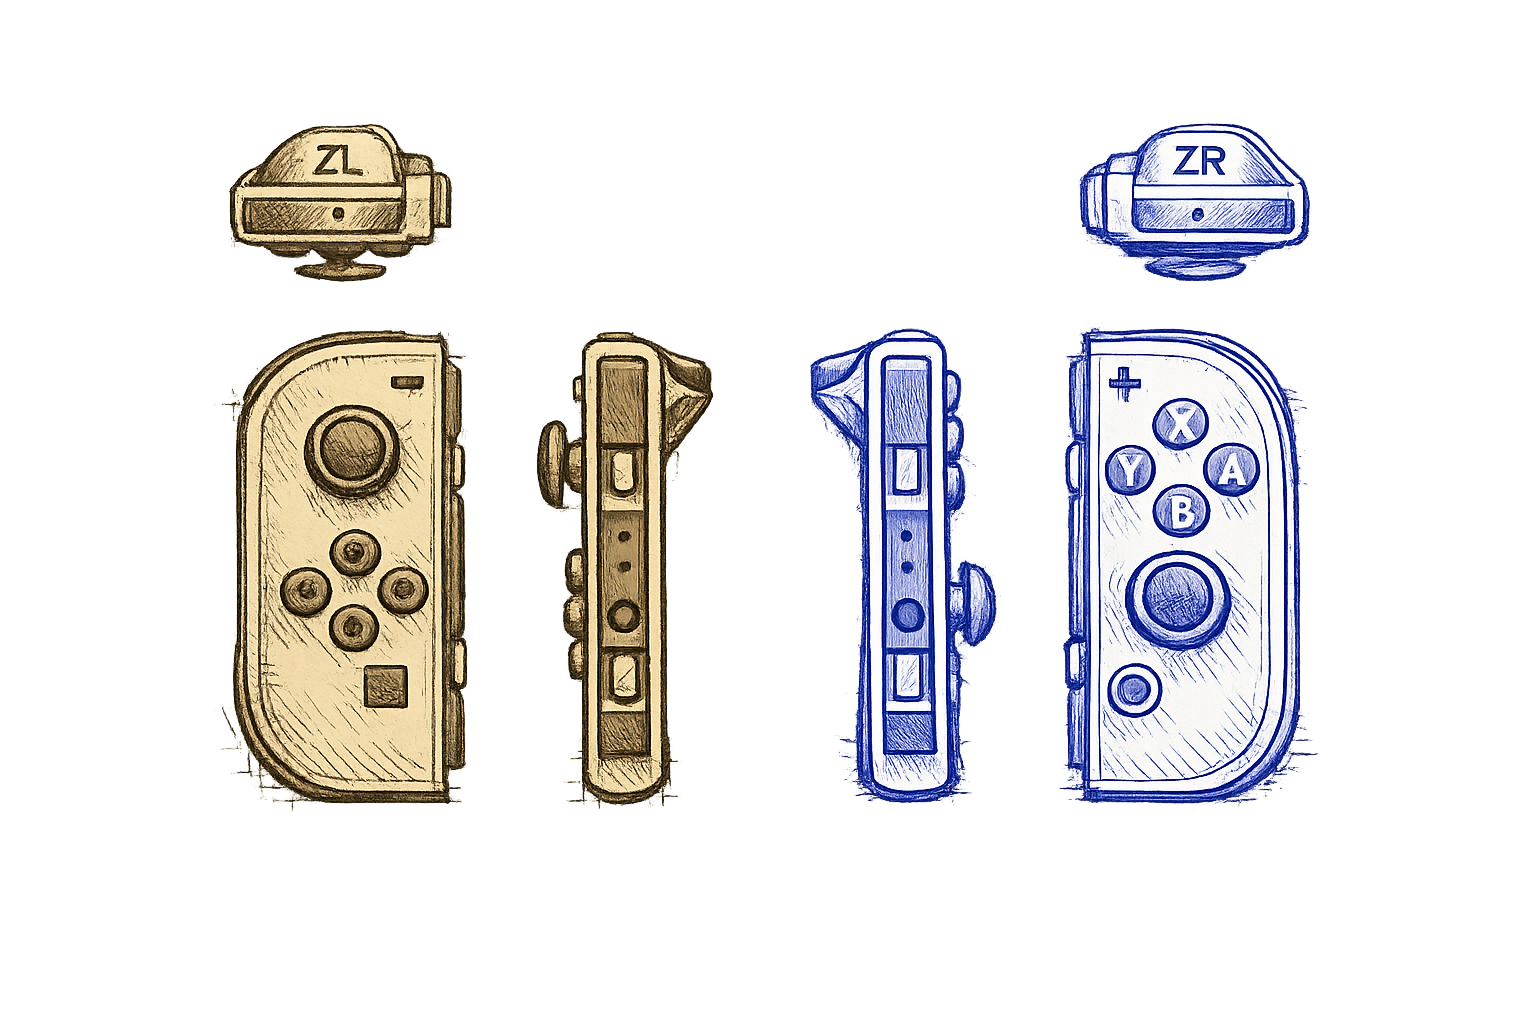
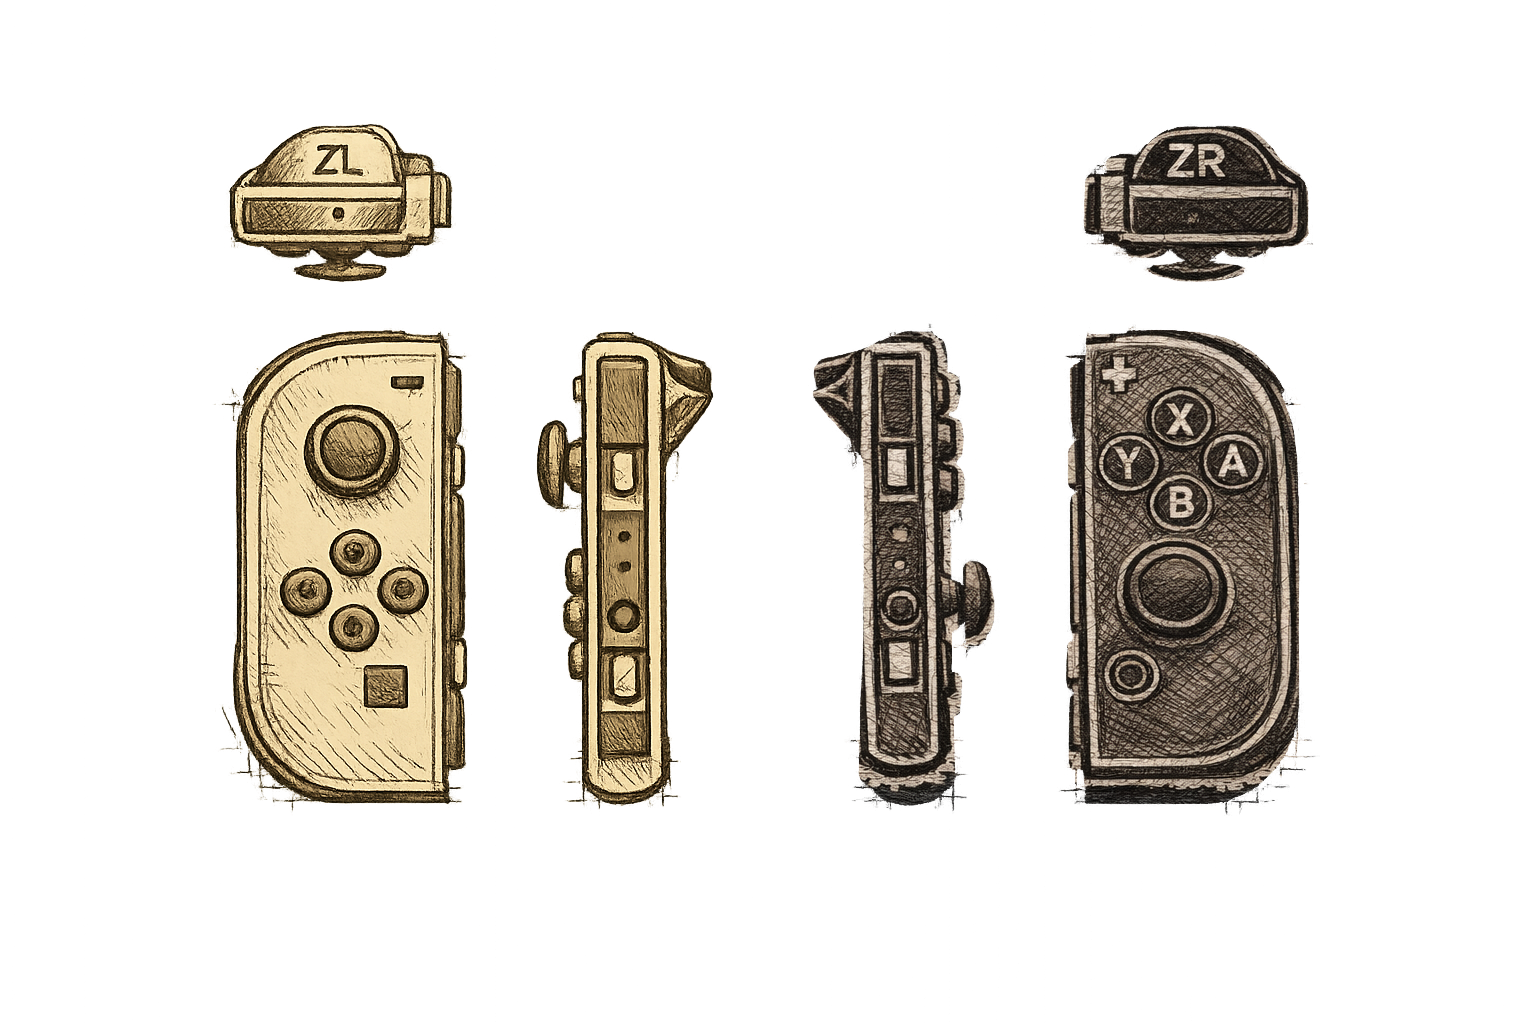
feat(ui): dark controller overlays + regenerate inspection PNGs
- Regenerated 4 light inspection PNGs (joycons-none/left/right/both)
  reflecting updated joycons-grey.png artwork.
- Generated 4 new dark inspection PNGs (joycons-dark-none/left/right/both)
  from joycons-dark.png + joycons-dark-grey.png source artwork.
- Updated generate_ui_artifacts.py to render dark variants alongside light.
- Updated generate_ui_bundle.py: dark bundle now uses dark overlay PNGs
  instead of light ones (LIGHT_OVERLAYS / DARK_OVERLAYS dicts).
- Updated background-dark.svg to reference joycons-dark.png.
- Updated docs/ui/README.md and CHANGELOG.md.

Changed region(s): [[0.6875, 0.3125, 0.8438, 0.8125], [0.5312, 0.3125, 0.6562, 0.8125], [0.6875, 0.0938, 0.875, 0.2812]]

diff --git a/tools/generate_ui_artifacts.py b/tools/generate_ui_artifacts.py
@@ -23,12 +23,20 @@ REPO_ROOT = Path(__file__).resolve().parents[1]
 
 JOYCONS_SRC = REPO_ROOT / "joycons.png"
 JOYCONS_GREY_SRC = REPO_ROOT / "joycons-grey.png"
+JOYCONS_DARK_SRC = REPO_ROOT / "joycons-dark.png"
+JOYCONS_DARK_GREY_SRC = REPO_ROOT / "joycons-dark-grey.png"
 JOYCONS_OUT_DIR = REPO_ROOT / "docs" / "ui" / "assets"
 JOYCONS_COPIES = {
     "joycons-none.png": "Inspection copy (none disconnected) derived from joycons-grey.png",
     "joycons-left.png": "Inspection copy (left connected) composited from joycons.png + joycons-grey.png",
     "joycons-right.png": "Inspection copy (right connected) composited from joycons.png + joycons-grey.png",
     "joycons-both.png": "Inspection copy (both connected) derived from joycons.png",
+}
+JOYCONS_DARK_COPIES = {
+    "joycons-dark-none.png": "Dark inspection copy (none) derived from joycons-dark-grey.png",
+    "joycons-dark-left.png": "Dark inspection copy (left connected) composited from joycons-dark.png + joycons-dark-grey.png",
+    "joycons-dark-right.png": "Dark inspection copy (right connected) composited from joycons-dark.png + joycons-dark-grey.png",
+    "joycons-dark-both.png": "Dark inspection copy (both connected) derived from joycons-dark.png",
 }
 
 GENERATOR_SRC = Path(__file__).resolve()
@@ -39,12 +47,17 @@ UI_BUNDLE_INPUTS = [
     UI_BUNDLE_GENERATOR,
     JOYCONS_SRC,
     JOYCONS_GREY_SRC,
+    JOYCONS_DARK_SRC,
+    JOYCONS_DARK_GREY_SRC,
     REPO_ROOT / "docs" / "ui" / "background.svg",
     REPO_ROOT / "docs" / "ui" / "background-left.svg",
     REPO_ROOT / "docs" / "ui" / "background-right.svg",
     REPO_ROOT / "docs" / "ui" / "background-both.svg",
+    REPO_ROOT / "docs" / "ui" / "background-dark.svg",
     REPO_ROOT / "docs" / "ui" / "assets" / "components.svg",
     REPO_ROOT / "docs" / "ui" / "assets" / "icons.svg",
+    REPO_ROOT / "docs" / "ui" / "assets" / "components-dark.svg",
+    REPO_ROOT / "docs" / "ui" / "assets" / "icons-dark.svg",
 ]
 
 
@@ -66,10 +79,18 @@ def _copy_if_needed(src: Path, dst: Path) -> bool:
     return True
 
 
-def _render_joycons_variant(dst: Path, *, variant: str) -> bool:
-    """Render joycons-none/left/right/both from the color + grey source art."""
+def _render_joycons_variant(
+    dst: Path,
+    *,
+    variant: str,
+    color_src: Path | None = None,
+    grey_src: Path | None = None,
+) -> bool:
+    """Render joycons-none/left/right/both from a color + grey source pair."""
+    color_src = color_src or JOYCONS_SRC
+    grey_src = grey_src or JOYCONS_GREY_SRC
 
-    if not _needs_update([JOYCONS_SRC, JOYCONS_GREY_SRC, GENERATOR_SRC], dst):
+    if not _needs_update([color_src, grey_src, GENERATOR_SRC], dst):
         return False
 
     try:
@@ -82,11 +103,11 @@ def _render_joycons_variant(dst: Path, *, variant: str) -> bool:
         )
         raise
 
-    img = Image.open(JOYCONS_SRC).convert("RGBA")
-    grey = Image.open(JOYCONS_GREY_SRC).convert("RGBA")
+    img = Image.open(color_src).convert("RGBA")
+    grey = Image.open(grey_src).convert("RGBA")
     if img.size != grey.size:
         raise ValueError(
-            f"joycons.png and joycons-grey.png must have the same size, got {img.size} vs {grey.size}"
+            f"{color_src.name} and {grey_src.name} must have the same size, got {img.size} vs {grey.size}"
         )
 
     width, height = img.size
@@ -140,11 +161,32 @@ def main() -> int:
     elif not JOYCONS_GREY_SRC.exists():
         print(f"[ui-artifacts] joycons-grey.png not found: {JOYCONS_GREY_SRC}")
     else:
-        # Render the inspection copies.
+        # Render the light inspection copies.
         for name in JOYCONS_COPIES:
             dst = JOYCONS_OUT_DIR / name
             try:
                 did = _render_joycons_variant(dst, variant=name.removeprefix("joycons-").removesuffix(".png"))
+            except Exception:
+                return 3
+
+            if did:
+                changed.append(str(dst.relative_to(REPO_ROOT)))
+
+    # Render dark inspection copies.
+    if not JOYCONS_DARK_SRC.exists():
+        print(f"[ui-artifacts] joycons-dark.png not found: {JOYCONS_DARK_SRC}")
+    elif not JOYCONS_DARK_GREY_SRC.exists():
+        print(f"[ui-artifacts] joycons-dark-grey.png not found: {JOYCONS_DARK_GREY_SRC}")
+    else:
+        for name in JOYCONS_DARK_COPIES:
+            dst = JOYCONS_OUT_DIR / name
+            try:
+                did = _render_joycons_variant(
+                    dst,
+                    variant=name.removeprefix("joycons-dark-").removesuffix(".png"),
+                    color_src=JOYCONS_DARK_SRC,
+                    grey_src=JOYCONS_DARK_GREY_SRC,
+                )
             except Exception:
                 return 3
 

diff --git a/tools/generate_ui_bundle.py b/tools/generate_ui_bundle.py
@@ -121,10 +121,29 @@ def _read_text(path: Path) -> str:
     return path.read_text(encoding="utf-8")
 
 
-def _rewrite_bundle_svg(svg_text: str) -> str:
+def _rewrite_bundle_svg(svg_text: str, *, dark: bool = False) -> str:
     # Keep docs-friendly relative paths in repo sources, but ensure generated bundle
     # SVGs are self-contained within the output folder.
-    return svg_text.replace("../../joycons.png", "joycons.png")
+    text = svg_text.replace("../../joycons.png", "joycons.png")
+    text = text.replace("../../joycons-dark.png", "joycons.png")
+    return text
+
+
+LIGHT_OVERLAYS = {
+    "joycons.png": Path("joycons.png"),
+    "joycons-both.png": Path("docs/ui/assets/joycons-both.png"),
+    "joycons-left.png": Path("docs/ui/assets/joycons-left.png"),
+    "joycons-right.png": Path("docs/ui/assets/joycons-right.png"),
+    "joycons-none.png": Path("docs/ui/assets/joycons-none.png"),
+}
+
+DARK_OVERLAYS = {
+    "joycons.png": Path("joycons-dark.png"),
+    "joycons-both.png": Path("docs/ui/assets/joycons-dark-both.png"),
+    "joycons-left.png": Path("docs/ui/assets/joycons-dark-left.png"),
+    "joycons-right.png": Path("docs/ui/assets/joycons-dark-right.png"),
+    "joycons-none.png": Path("docs/ui/assets/joycons-dark-none.png"),
+}
 
 
 def _write_bundle(
@@ -135,25 +154,21 @@ def _write_bundle(
     bg_both_path: Path,
     icons_path: Path | None,
     components_path: Path | None,
+    *,
+    dark: bool = False,
 ) -> None:
     """Write a single UI bundle into *out_dir*."""
     out_dir.mkdir(parents=True, exist_ok=True)
 
     (out_dir / "theme.json").write_text(json.dumps(theme, indent=2), encoding="utf-8")
     (out_dir / "layout.json").write_text(json.dumps(DEFAULT_LAYOUT, indent=2), encoding="utf-8")
-    (out_dir / "background-left.svg").write_text(_rewrite_bundle_svg(_read_text(bg_left_path)), encoding="utf-8")
-    (out_dir / "background-right.svg").write_text(_rewrite_bundle_svg(_read_text(bg_right_path)), encoding="utf-8")
-    (out_dir / "background-both.svg").write_text(_rewrite_bundle_svg(_read_text(bg_both_path)), encoding="utf-8")
+    (out_dir / "background-left.svg").write_text(_rewrite_bundle_svg(_read_text(bg_left_path), dark=dark), encoding="utf-8")
+    (out_dir / "background-right.svg").write_text(_rewrite_bundle_svg(_read_text(bg_right_path), dark=dark), encoding="utf-8")
+    (out_dir / "background-both.svg").write_text(_rewrite_bundle_svg(_read_text(bg_both_path), dark=dark), encoding="utf-8")
     # Keep a compatibility copy for older docs/tools.
-    (out_dir / "background.svg").write_text(_rewrite_bundle_svg(_read_text(bg_both_path)), encoding="utf-8")
+    (out_dir / "background.svg").write_text(_rewrite_bundle_svg(_read_text(bg_both_path), dark=dark), encoding="utf-8")
 
-    overlays = {
-        "joycons.png": Path("joycons.png"),
-        "joycons-both.png": Path("docs/ui/assets/joycons-both.png"),
-        "joycons-left.png": Path("docs/ui/assets/joycons-left.png"),
-        "joycons-right.png": Path("docs/ui/assets/joycons-right.png"),
-        "joycons-none.png": Path("docs/ui/assets/joycons-none.png"),
-    }
+    overlays = DARK_OVERLAYS if dark else LIGHT_OVERLAYS
     for name, overlay_path in overlays.items():
         if overlay_path.exists():
             try:
@@ -294,7 +309,8 @@ def main() -> int:
 
         print("Dark bundle:")
         _write_bundle(dark_out, DARK_THEME, dark_left, dark_right, dark_both,
-                      Path(args.dark_icons), Path(args.dark_components))
+                      Path(args.dark_icons), Path(args.dark_components),
+                      dark=True)
 
     return 0
 

diff --git a/docs/ui/README.md b/docs/ui/README.md
@@ -22,19 +22,27 @@ UI kit (theme-matched controls):
 
 ## Mandatory artifacts (commit/push workflow)
 
-This repo relies on `joycons.png` as an overlay reference:
+This repo relies on `joycons.png` (light) and `joycons-dark.png` (dark) as overlay references:
 
-- `docs/ui/background.svg` links to it.
-- the helper app’s Controller-tab keymap editor uses it.
+- `docs/ui/background.svg` links to `joycons.png`.
+- `docs/ui/background-dark.svg` links to `joycons-dark.png`.
+- the helper app's Controller-tab keymap editor uses them.
 
 To keep reviewable inspection copies up-to-date, we also keep these files in git:
 
+**Light theme:**
 - `docs/ui/assets/joycons-none.png`
 - `docs/ui/assets/joycons-left.png`
 - `docs/ui/assets/joycons-right.png`
 - `docs/ui/assets/joycons-both.png`
 
-`joycons-none.png` is the fully-grey disconnected state. `joycons-left.png` and `joycons-right.png` now composite the active side from `joycons.png` with the inactive side from `joycons-grey.png`.
+**Dark theme:**
+- `docs/ui/assets/joycons-dark-none.png`
+- `docs/ui/assets/joycons-dark-left.png`
+- `docs/ui/assets/joycons-dark-right.png`
+- `docs/ui/assets/joycons-dark-both.png`
+
+`*-none.png` is the fully-grey disconnected state. `*-left.png` and `*-right.png` composite the active side from the color source with the inactive side from the grey source.
 
 Generate/update them (and refresh the local `.ui-bundle/` folder when needed) with:
 

diff --git a/CHANGELOG.md b/CHANGELOG.md
@@ -11,6 +11,10 @@ Until then, entries are grouped by date.
 
 ### Added
 
+- **Dark controller overlay artwork**: `joycons-dark.png` + `joycons-dark-grey.png` source PNGs for the dark theme.
+  - Artifact pipeline now generates 4 dark inspection copies (`joycons-dark-none/left/right/both.png`) alongside the 4 light copies.
+  - Dark UI bundle (`.ui-bundle-dark/`) now uses the dark overlay PNGs instead of the light ones.
+  - `background-dark.svg` updated to reference `joycons-dark.png`.
 - **Dark mode UI bundle**: complete dark-mode variant of the torn-parchment theme.
   - `docs/ui/background-dark.svg` — dark parchment on very dark desk surface.
   - `docs/ui/assets/components-dark.svg` — dark-inverted component sheet (same shapes/paths as light).
